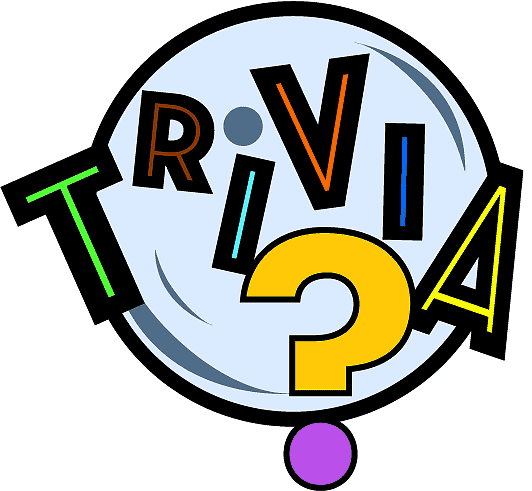
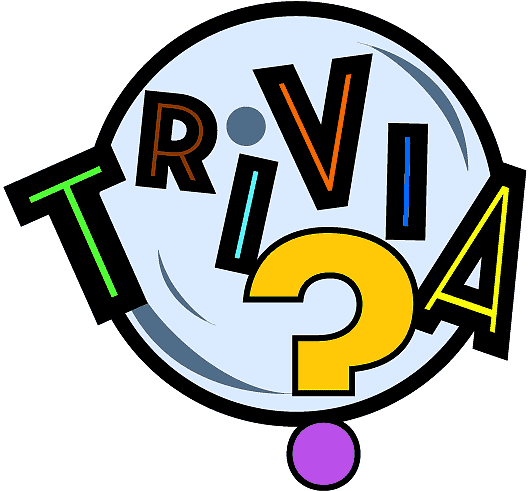
Se agregó imagen para cabecera.

diff --git a/src/style.css b/src/style.css
@@ -23,6 +23,16 @@ header{
 header h1{
     text-align: justify;
     display: inline-block;
+    padding-top: 30px;
+}
+
+header img{
+    width: 160px;
+    height: 105px;
+    display: block;
+    margin: auto;
+    margin-top: -70px;
+    padding-left: 300px;
 }
 
 #b{

diff --git a/src/index.html b/src/index.html
@@ -13,6 +13,7 @@
     <header>
         <h1 id="a">TRIVIA'S GAME</h1>
         <h1 id="b">LA MEJOR WEB DE TRIVIAS</h1>
+        <img src="img/trivias.png">
     </header>
     <article>
         <div class="textos">
